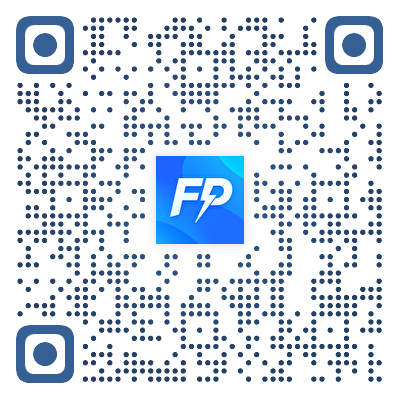
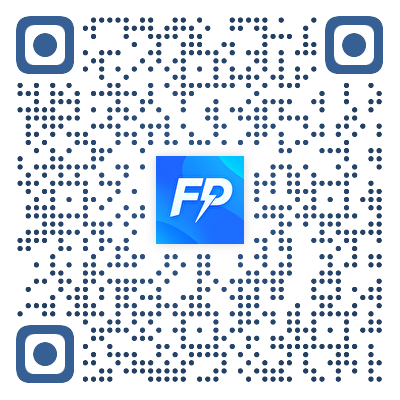
二维码更新

diff --git a/src/views/Product.vue b/src/views/Product.vue
@@ -3,7 +3,7 @@
  * @Autor: lin
  * @Date: 2025-04-22 09:29:34
  * @LastEditors: lin
- * @LastEditTime: 2025-07-18 15:23:57
+ * @LastEditTime: 2025-08-05 20:34:48
 -->
 <template>
   <div class="to-cyan-500 min-h-screen text-white" style="background: #4961F0;">
@@ -47,7 +47,7 @@
     <section class="mx-auto px-4 mt-10">
         <div class="text-center rounded-xl shadow-md p-6 text-white">
           <p class="mb-4">Scan the QR code or click the button below to download FAST PICK.</p>
-          <!-- <img src="@/assets/qrcode.png" alt="下载二维码" class="w-40 h-40 inline-block mb-4" /> -->
+          <img src="@/assets/qrcode.png" alt="下载二维码" class="w-40 h-40 inline-block mb-4" />
           <a href="https://mp-6e4ba07a-f05f-4c88-bf57-25f05c7a03a0.cdn.bspapp.com/cloudstorage/93803841-2c86-41e7-9433-f6cc1fb05752.apk" style="margin: 10px auto;" class="block w-40 text-center bg-white text-blue-600 font-semibold rounded-lg py-2">
             Download
           </a>
